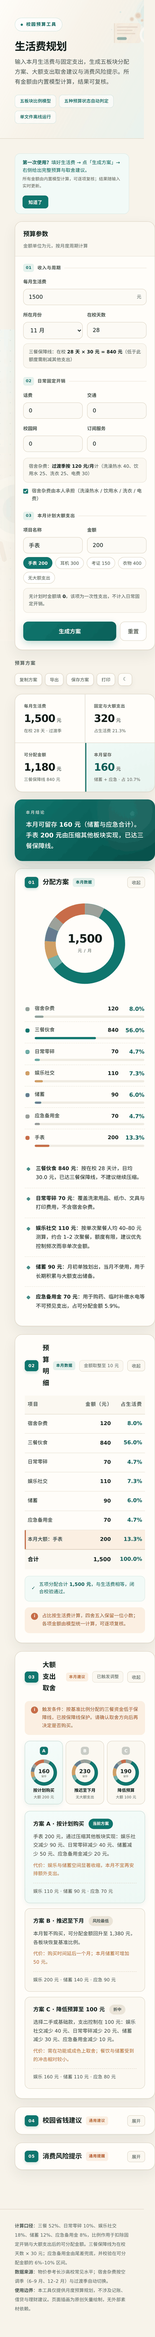
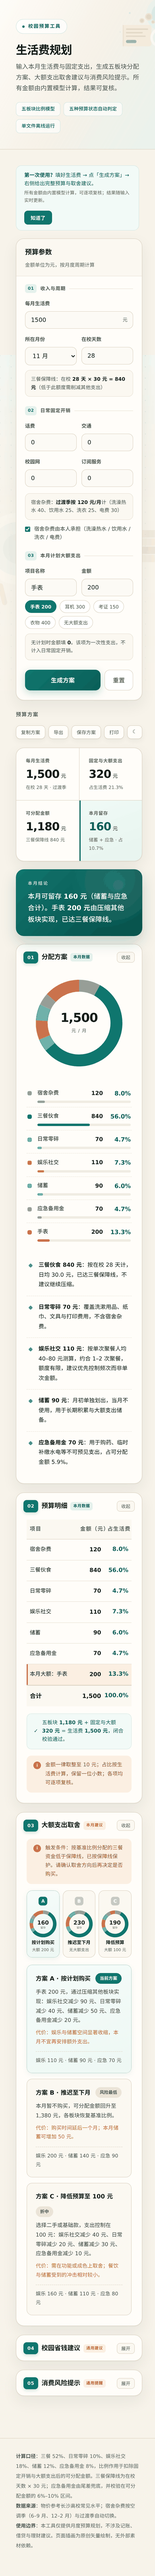
fix(web): 移动端卡头竖排与闭合校验文案口径
- 窄屏卡头可换行、标题不竖排、隐藏冗余 meta，字号与间距收一档
- 「金额取整至 10 元」并入正文提示，避免隐藏 meta 后丢信息
- 闭合校验改为「五板块 1180 + 固定与大额 320 = 生活费 1500」
- 演示动线同步真实数字并重新录制截图

diff --git a/college-budget-planner/web/index.html b/college-budget-planner/web/index.html
@@ -255,6 +255,12 @@
   .bar{width:112px;height:9px;border-radius:5px;background:#e6e0d3;overflow:hidden;flex:none}
   .bar i{display:block;height:100%;border-radius:4px}
   @media (max-width:700px){
+    .card-head{flex-wrap:wrap;row-gap:7px;padding:18px 18px 0;gap:8px}
+    .card-head h2{white-space:nowrap;flex:0 0 auto;font-size:16.5px}
+    .card-head .meta{display:none}
+    .kind{flex:0 0 auto;font-size:10px;padding:2px 7px}
+    .fold{margin-left:auto;flex:0 0 auto;padding:4px 10px;font-size:11.5px}
+    .card.collapsed .card-head{padding-bottom:16px}
     th,td{padding:13px 8px;font-size:13.5px}
     .bar{display:none}
     .pc-cell .num{min-width:auto;font-size:14.5px}
@@ -1182,13 +1188,15 @@
 
     /* 02 明细表 */
     var balanceCls = res.balanced ? "balance" : "balance bad";
+    var restSum = res.fixed + res.big;
     var balanceTxt = res.balanced
-      ? "五项分配合计 <b>" + money(res.total) + " 元</b>，与生活费相等，闭合校验通过。"
-      : "五项分配合计 <b>" + money(res.total) + " 元</b>，与生活费不一致，请检查输入。";
+      ? "五板块 <b>" + money(res.R) + " 元</b> + 固定与大额 <b>" + money(restSum) + " 元</b> = 生活费 <b>" +
+        money(res.total) + " 元</b>，闭合校验通过。"
+      : "五板块 <b>" + money(res.R) + " 元</b> + 固定与大额 <b>" + money(restSum) + " 元</b>，合计与生活费不一致，请检查输入。";
     html += '<div class="card' + (folded.detail ? " collapsed" : "") + '">' +
       cardHead("02", "预算明细", "data", "本月数据", "金额取整至 10 元", "detail") + '<div class="card-body">' + tableRows(res, bigName) +
       '<div class="' + balanceCls + '"><span>✓</span><div>' + balanceTxt + '</div></div>' +
-      '<div class="tip-line"><span class="i">i</span><div>占比按生活费计算，四舍五入保留一位小数；各项金额由模型统一计算，可逐项复核。</div></div>' +
+      '<div class="tip-line"><span class="i">i</span><div>金额一律取整至 10 元；占比按生活费计算，保留一位小数；各项均可逐项复核。</div></div>' +
       '</div></div>';
 
     /* 03 大额取舍 */

diff --git a/demo.md b/demo.md
@@ -23,8 +23,8 @@
 
 - 顶部四张卡：生活费 / 固定与大额 / 可分配 / 本月留存。
 - 绿色结论条：一句话说清这个月能不能存下钱。
-- 环形图 + 图例：三餐 840（56%）、娱乐 110、储蓄 90、应急 70，**五项加起来正好 1500**。
-- 明细表最下面那行：`五项分配合计 1,500 元，与生活费相等，闭合校验通过`。
+- 环形图 + 图例：**五板块 1180 + 固定 120 + 大额 200 = 1500**（三餐 840、日常 70、娱乐 110、储蓄 90、应急 70）。
+- 明细表最下面那行：`五板块 1,180 元 + 固定与大额 320 元 = 生活费 1,500 元，闭合校验通过`。
 
 > "所有金额取整到 10 元，并且强制闭合。算不平的方案不会输出。"
 
